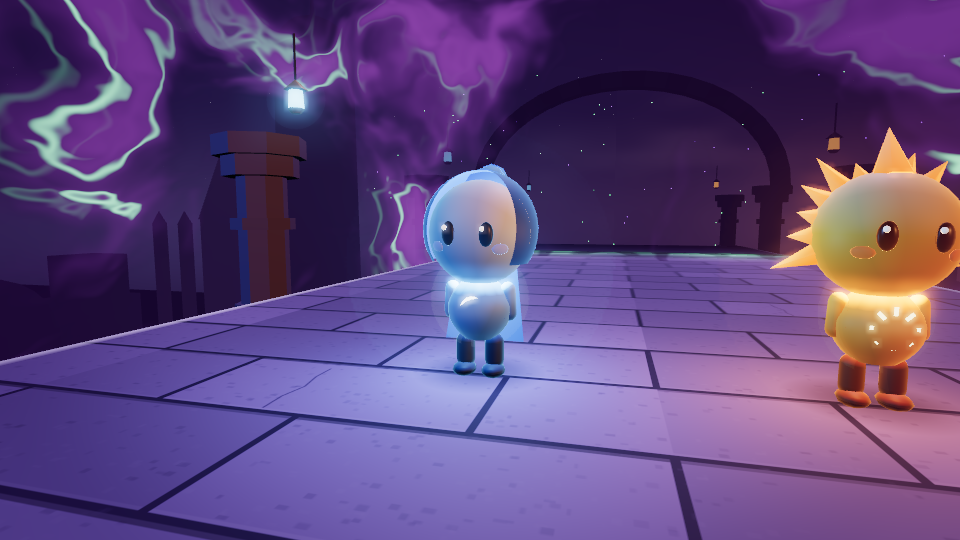
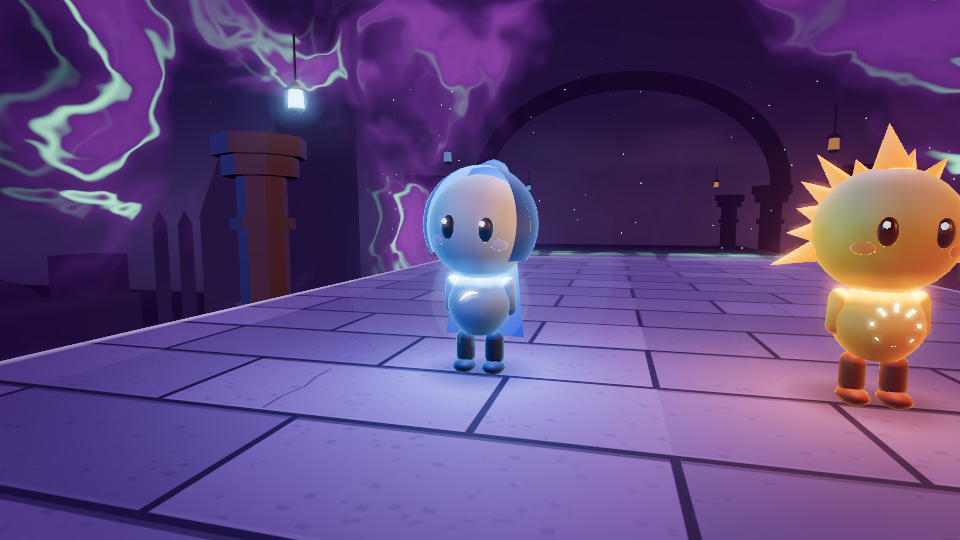
WIP Runner 3D renderer: deeper Luna hood; leak check prints instead of a screenshot

diff --git a/public/js/r3d/characters.js b/public/js/r3d/characters.js
@@ -155,12 +155,12 @@ export class Character {
   // glowing crescent on the back of the hood (what the camera behind her sees) and a short cape.
   buildCrescent(head, M) {
     const P = this.P;
-    const hoodMat = patchWorld(new THREE.MeshStandardMaterial({ vertexColors: true, roughness: 0.6, side: THREE.DoubleSide,
-      emissive: 0x0a1c48, emissiveIntensity: 1 }), { rim: col(0x6fb8ff).multiplyScalar(0.6), dissolve: this.dis, key: 'hood' });
+    const hoodMat = patchWorld(new THREE.MeshStandardMaterial({ vertexColors: true, roughness: 0.75, side: THREE.DoubleSide,
+      emissive: 0x081638, emissiveIntensity: 1 }), { rim: col(0x6fb8ff).multiplyScalar(0.28), dissolve: this.dis, key: 'hood' });
     this.mats.hood = hoodMat;
     const open = 1.7;   // opening at the face (-z), radians
     const hoodG = new THREE.SphereGeometry(0.405, 24, 14, Math.PI * 1.5 + open / 2, Math.PI * 2 - open, 0, Math.PI * 0.68);
-    grad(hoodG, -0.2, 0.4, 0x1b2f6e, 0x3f6fd0);
+    grad(hoodG, -0.2, 0.4, 0x16285e, 0x3460bc);
     const hood = new THREE.Mesh(hoodG, hoodMat); hood.position.set(0, 0.02, 0.02); head.add(hood);
     // drooping point: a bent cone of three segments
     const tip = this.tip = new THREE.Group(); tip.position.set(0, 0.3, 0.16); tip.rotation.x = 1.0; head.add(tip);

diff --git a/tools/r3d-shots.js b/tools/r3d-shots.js
@@ -133,6 +133,7 @@ try {
     const st = await ev('__r3d.render()');
     const ms = steps ? (Date.now() - t0) / steps : 0;
     await sleep(50);
+    if (name === 'leak') { console.log('leak         ', await ev('window.__leak')); continue; }
     const shot = await send('Page.captureScreenshot', { format: 'png' });
     writeFileSync(join(OUT, `render-${name}.png`), Buffer.from(shot.data, 'base64'));
     console.log(`${name.padEnd(12)} ${String(st.calls).padStart(4)} calls ${String(Math.round(st.triangles / 1000)).padStart(5)}k tris  ${st.views} views  ${st.level}  ~${ms.toFixed(0)} ms/frame (software GL)  -> ${join(OUT, `render-${name}.png`)}`);
